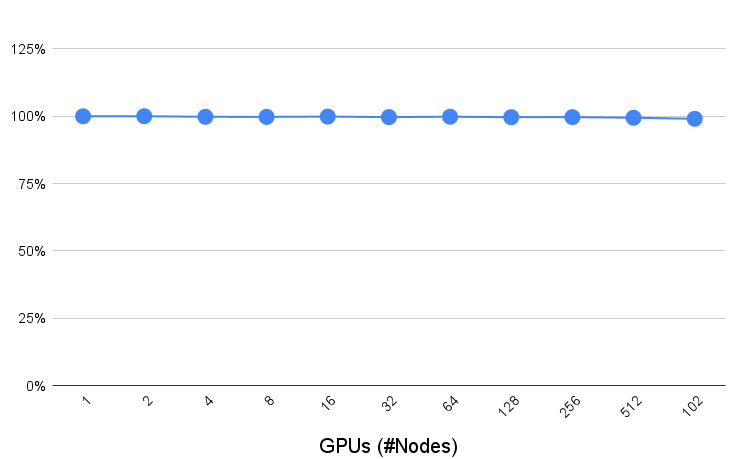
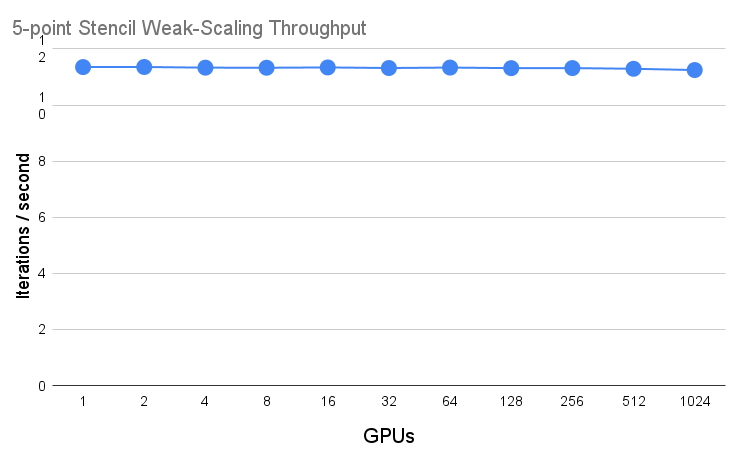
site rebuild

diff --git a/blog/legate-blog/index.html b/blog/legate-blog/index.html
@@ -1186,14 +1186,15 @@ communication pattern between GPUs, where only the data at the edges of each til
 <p>With cuNumeric and Legate, this Python program can weak scale with high efficiency to large numbers of GPUs.
 Below is a weak scaling plot of the stencil program out to 1024 GPUs. In weak-scaling, we start with a fixed
 problem size on a single GPU, and then increase the number of GPUs while keeping the problem size per GPU the
-same. We then measure the ratio of time needed to run the application with \(P\) GPUs versus 1 GPU. An ideal
-weak-scaling plot is a flat line at 100% efficiency, meaning that we could run the application on a problem
+same. We then plot the throughput per GPU achieved by the system. An ideal weak-scaling plot is a flat line
+that maintains the same throughput achieved at a single GPU, meaning that we could run the application on a problem
 size \(P * N\) on \(P\) GPUs in the same amount of time as problem size \(N\) on 1 GPU.</p>
 <p><img src="https://rohany.github.io/blog/legate/stencil-cunumeric-gtc.png" alt="Weak scaling of cuNumeric 5-point stencil computation"></p>
 <p>While the shown example is a very small program,
 we have been able to port large scientific applications to cuNumeric. The largest example to date is
 <a href="https://github.com/shriram-jagan/TorchSWE/tree/cunumeric-no-mpi4py">TorchSWE</a>, a GPU-accelerated
-shallow-water equation solver. The original version of the application used <a href="https://cupy.dev/">CuPy</a>
+shallow-water equation solver developed by Pi-Yueh Chuang and Lorena Barba.
+The original version of the application used <a href="https://cupy.dev/">CuPy</a>
 for GPU operations and MPI for distribution. The Legate team ported TorchSWE to cuNumeric by removing
 all of the MPI code and letting cuNumeric and Legate perform all distribution and communication. The
 resulting pure NumPy code when run with cuNumeric yields respectable weak-scaling performance, as seen
@@ -1239,8 +1240,7 @@ libraries is almost never seen in distributed, high performance computing. Legat
 this interoperability while delivering competitive performance with state-of-the-art sparse linear algebra
 libraries like <a href="https://petsc.org/release/">PETSc</a>. A weak-scaling plot comparing the throughput achieved
 in a <a href="https://en.wikipedia.org/wiki/Conjugate_gradient_method">Conjugate Gradient solve</a> by Legate Sparse
-and PETSc. Unlike parallel efficiency as used in previous plots, this plot&rsquo;s y-axis is the throughput per
-GPU achieved by each library.</p>
+and PETSc.</p>
 <p><img src="https://rohany.github.io/blog/legate/legate-sparse-cg-petsc.png" alt="Conjugate Gradient weak-scaling throughput"></p>
 <p>We&rsquo;ve developed some complex pieces of code that use Legate Sparse and cuNumeric together, including geometric
 and algebraic multi-grid solvers, a sparse matrix factorization algorithm, and a Runge-Kutta integration method.

diff --git a/src/public/blog/legate-blog/index.html b/src/public/blog/legate-blog/index.html
@@ -1186,14 +1186,15 @@ communication pattern between GPUs, where only the data at the edges of each til
 <p>With cuNumeric and Legate, this Python program can weak scale with high efficiency to large numbers of GPUs.
 Below is a weak scaling plot of the stencil program out to 1024 GPUs. In weak-scaling, we start with a fixed
 problem size on a single GPU, and then increase the number of GPUs while keeping the problem size per GPU the
-same. We then measure the ratio of time needed to run the application with \(P\) GPUs versus 1 GPU. An ideal
-weak-scaling plot is a flat line at 100% efficiency, meaning that we could run the application on a problem
+same. We then plot the throughput per GPU achieved by the system. An ideal weak-scaling plot is a flat line
+that maintains the same throughput achieved at a single GPU, meaning that we could run the application on a problem
 size \(P * N\) on \(P\) GPUs in the same amount of time as problem size \(N\) on 1 GPU.</p>
 <p><img src="https://rohany.github.io/blog/legate/stencil-cunumeric-gtc.png" alt="Weak scaling of cuNumeric 5-point stencil computation"></p>
 <p>While the shown example is a very small program,
 we have been able to port large scientific applications to cuNumeric. The largest example to date is
 <a href="https://github.com/shriram-jagan/TorchSWE/tree/cunumeric-no-mpi4py">TorchSWE</a>, a GPU-accelerated
-shallow-water equation solver. The original version of the application used <a href="https://cupy.dev/">CuPy</a>
+shallow-water equation solver developed by Pi-Yueh Chuang and Lorena Barba.
+The original version of the application used <a href="https://cupy.dev/">CuPy</a>
 for GPU operations and MPI for distribution. The Legate team ported TorchSWE to cuNumeric by removing
 all of the MPI code and letting cuNumeric and Legate perform all distribution and communication. The
 resulting pure NumPy code when run with cuNumeric yields respectable weak-scaling performance, as seen
@@ -1239,8 +1240,7 @@ libraries is almost never seen in distributed, high performance computing. Legat
 this interoperability while delivering competitive performance with state-of-the-art sparse linear algebra
 libraries like <a href="https://petsc.org/release/">PETSc</a>. A weak-scaling plot comparing the throughput achieved
 in a <a href="https://en.wikipedia.org/wiki/Conjugate_gradient_method">Conjugate Gradient solve</a> by Legate Sparse
-and PETSc. Unlike parallel efficiency as used in previous plots, this plot&rsquo;s y-axis is the throughput per
-GPU achieved by each library.</p>
+and PETSc.</p>
 <p><img src="https://rohany.github.io/blog/legate/legate-sparse-cg-petsc.png" alt="Conjugate Gradient weak-scaling throughput"></p>
 <p>We&rsquo;ve developed some complex pieces of code that use Legate Sparse and cuNumeric together, including geometric
 and algebraic multi-grid solvers, a sparse matrix factorization algorithm, and a Runge-Kutta integration method.

diff --git a/src/content/blog/legate-blog.md b/src/content/blog/legate-blog.md
@@ -73,8 +73,8 @@ communication pattern between GPUs, where only the data at the edges of each til
 With cuNumeric and Legate, this Python program can weak scale with high efficiency to large numbers of GPUs.
 Below is a weak scaling plot of the stencil program out to 1024 GPUs. In weak-scaling, we start with a fixed
 problem size on a single GPU, and then increase the number of GPUs while keeping the problem size per GPU the
-same. We then measure the ratio of time needed to run the application with \\(P\\) GPUs versus 1 GPU. An ideal
-weak-scaling plot is a flat line at 100% efficiency, meaning that we could run the application on a problem
+same. We then plot the throughput per GPU achieved by the system. An ideal weak-scaling plot is a flat line
+that maintains the same throughput achieved at a single GPU, meaning that we could run the application on a problem
 size \\(P * N\\) on \\(P\\) GPUs in the same amount of time as problem size \\(N\\) on 1 GPU.
 
 
@@ -83,7 +83,8 @@ size \\(P * N\\) on \\(P\\) GPUs in the same amount of time as problem size \\(N
 While the shown example is a very small program,
 we have been able to port large scientific applications to cuNumeric. The largest example to date is
 [TorchSWE](https://github.com/shriram-jagan/TorchSWE/tree/cunumeric-no-mpi4py), a GPU-accelerated
-shallow-water equation solver. The original version of the application used [CuPy](https://cupy.dev/)
+shallow-water equation solver developed by Pi-Yueh Chuang and Lorena Barba. 
+The original version of the application used [CuPy](https://cupy.dev/)
 for GPU operations and MPI for distribution. The Legate team ported TorchSWE to cuNumeric by removing
 all of the MPI code and letting cuNumeric and Legate perform all distribution and communication. The
 resulting pure NumPy code when run with cuNumeric yields respectable weak-scaling performance, as seen
@@ -136,8 +137,7 @@ libraries is almost never seen in distributed, high performance computing. Legat
 this interoperability while delivering competitive performance with state-of-the-art sparse linear algebra
 libraries like [PETSc](https://petsc.org/release/). A weak-scaling plot comparing the throughput achieved
 in a [Conjugate Gradient solve](https://en.wikipedia.org/wiki/Conjugate_gradient_method) by Legate Sparse
-and PETSc. Unlike parallel efficiency as used in previous plots, this plot's y-axis is the throughput per
-GPU achieved by each library.
+and PETSc.
 
 ![Conjugate Gradient weak-scaling throughput](https://rohany.github.io/blog/legate/legate-sparse-cg-petsc.png)
 
